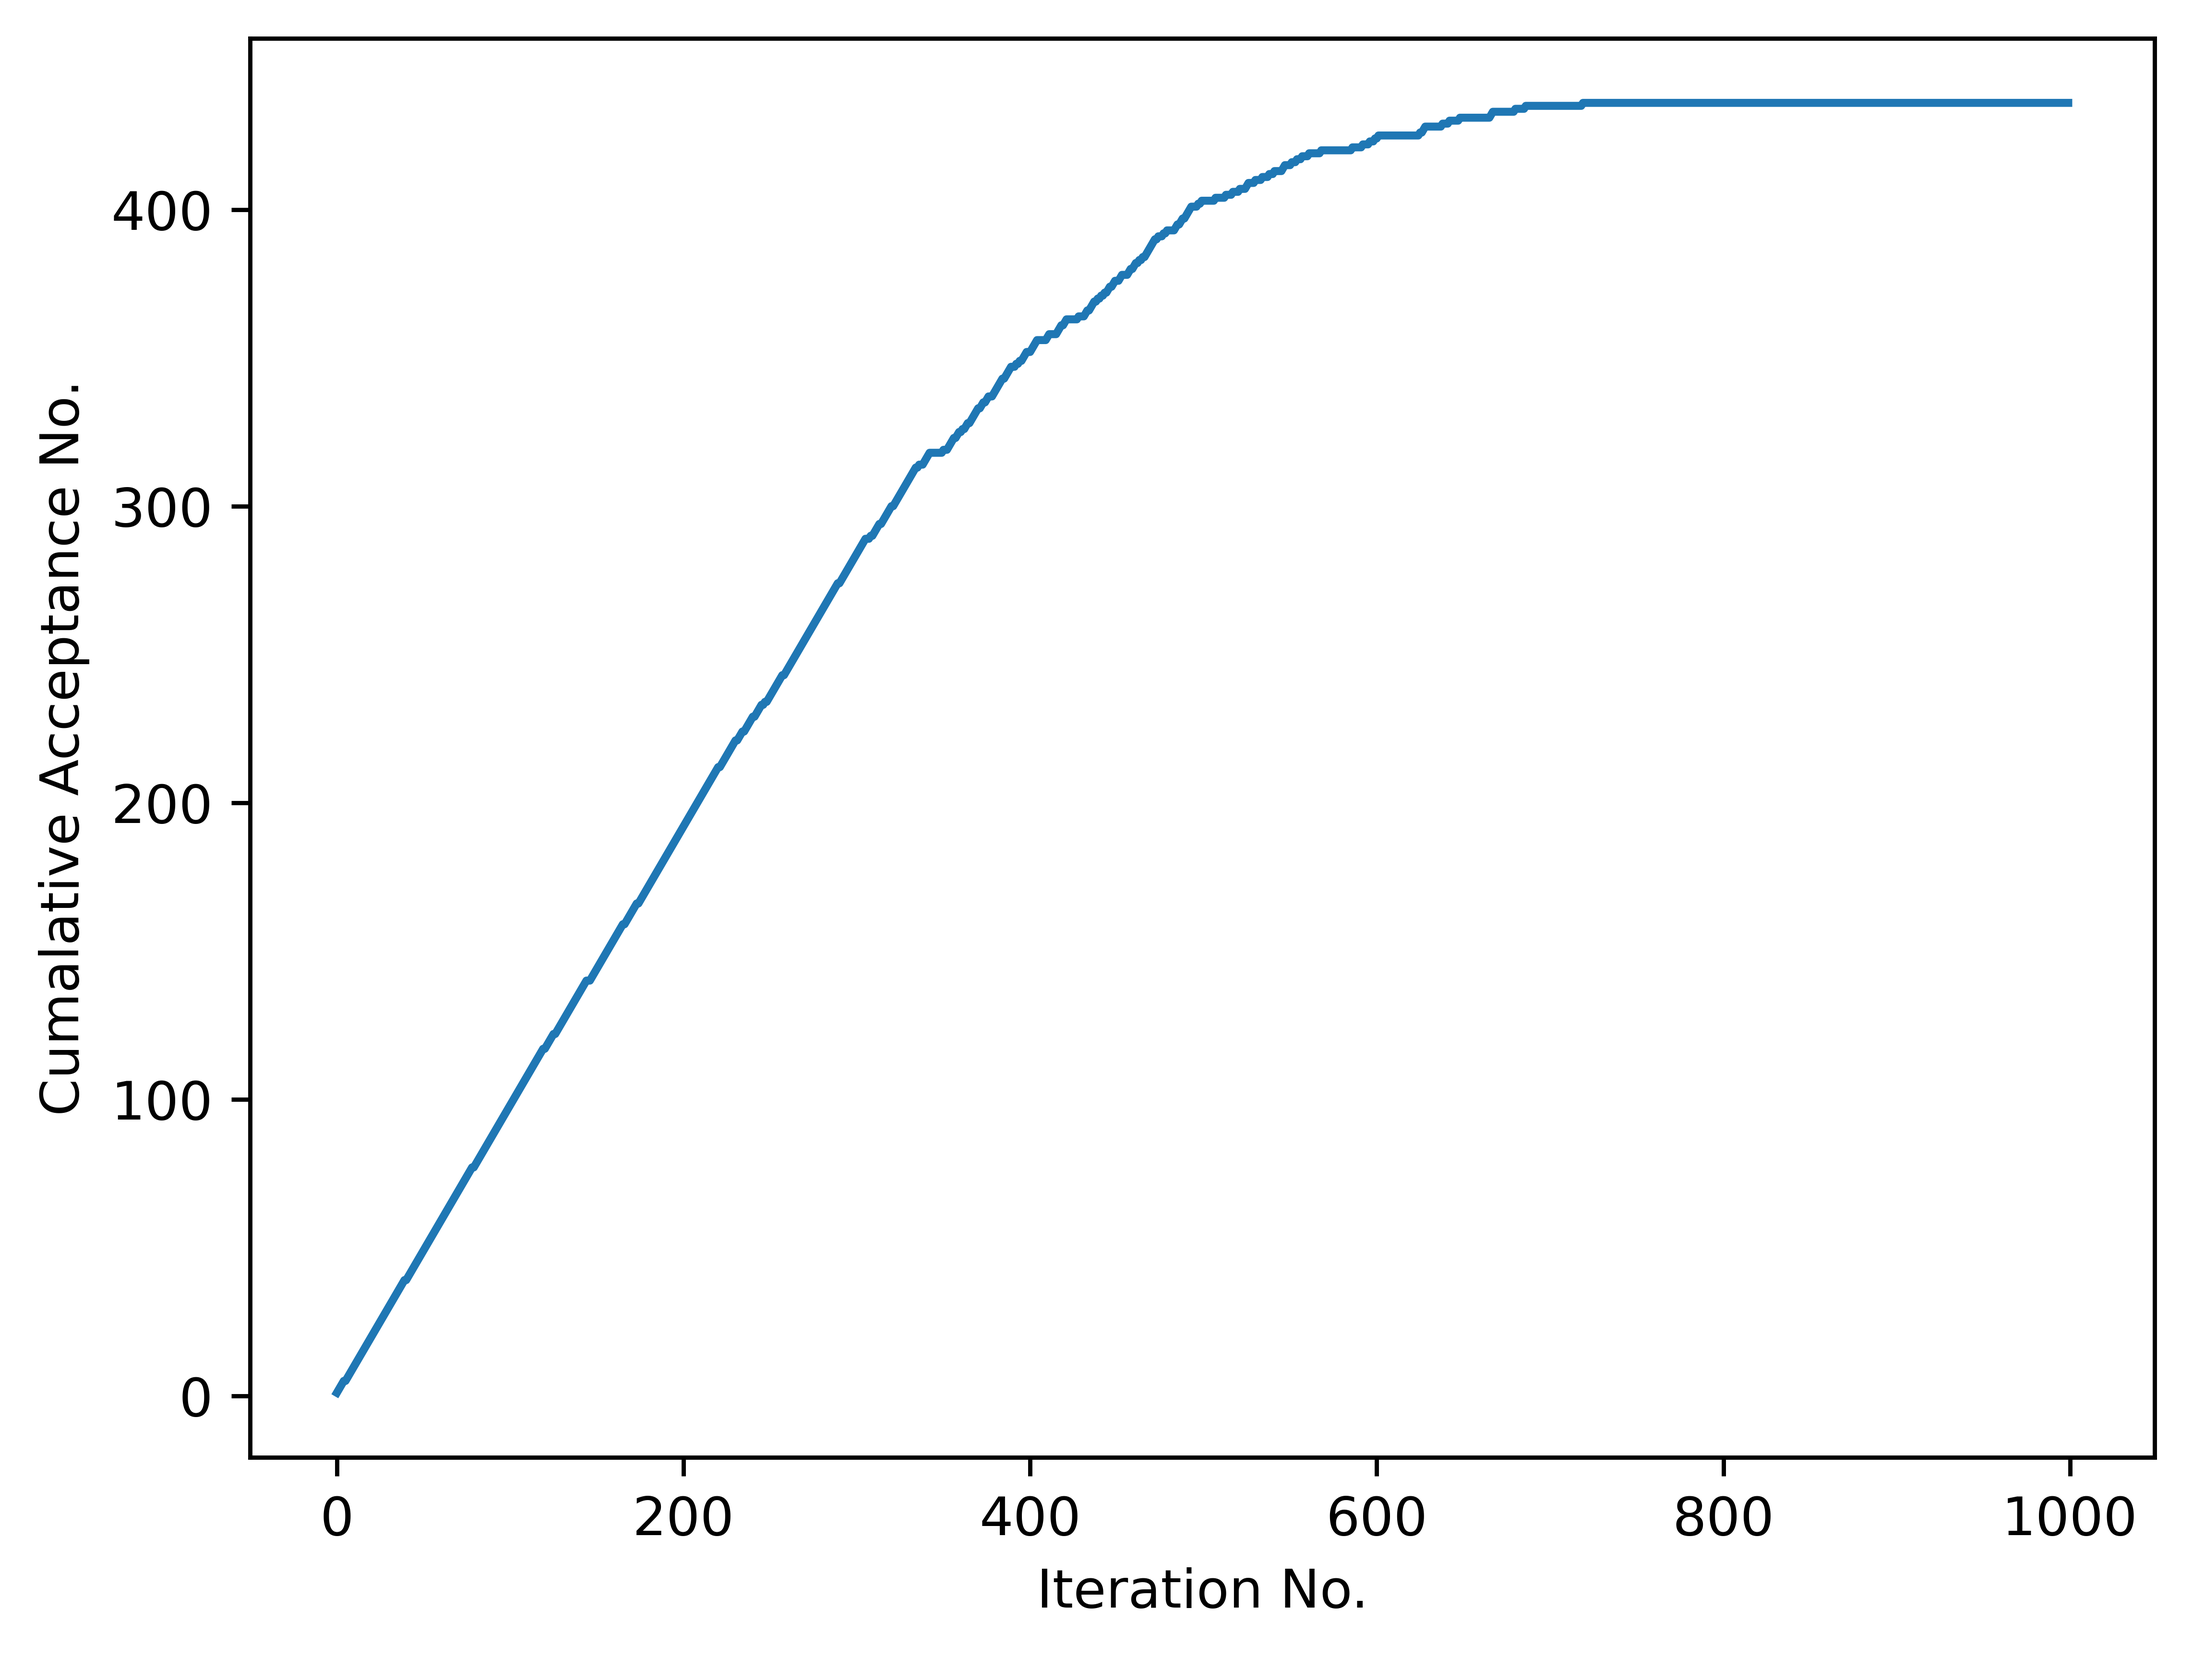
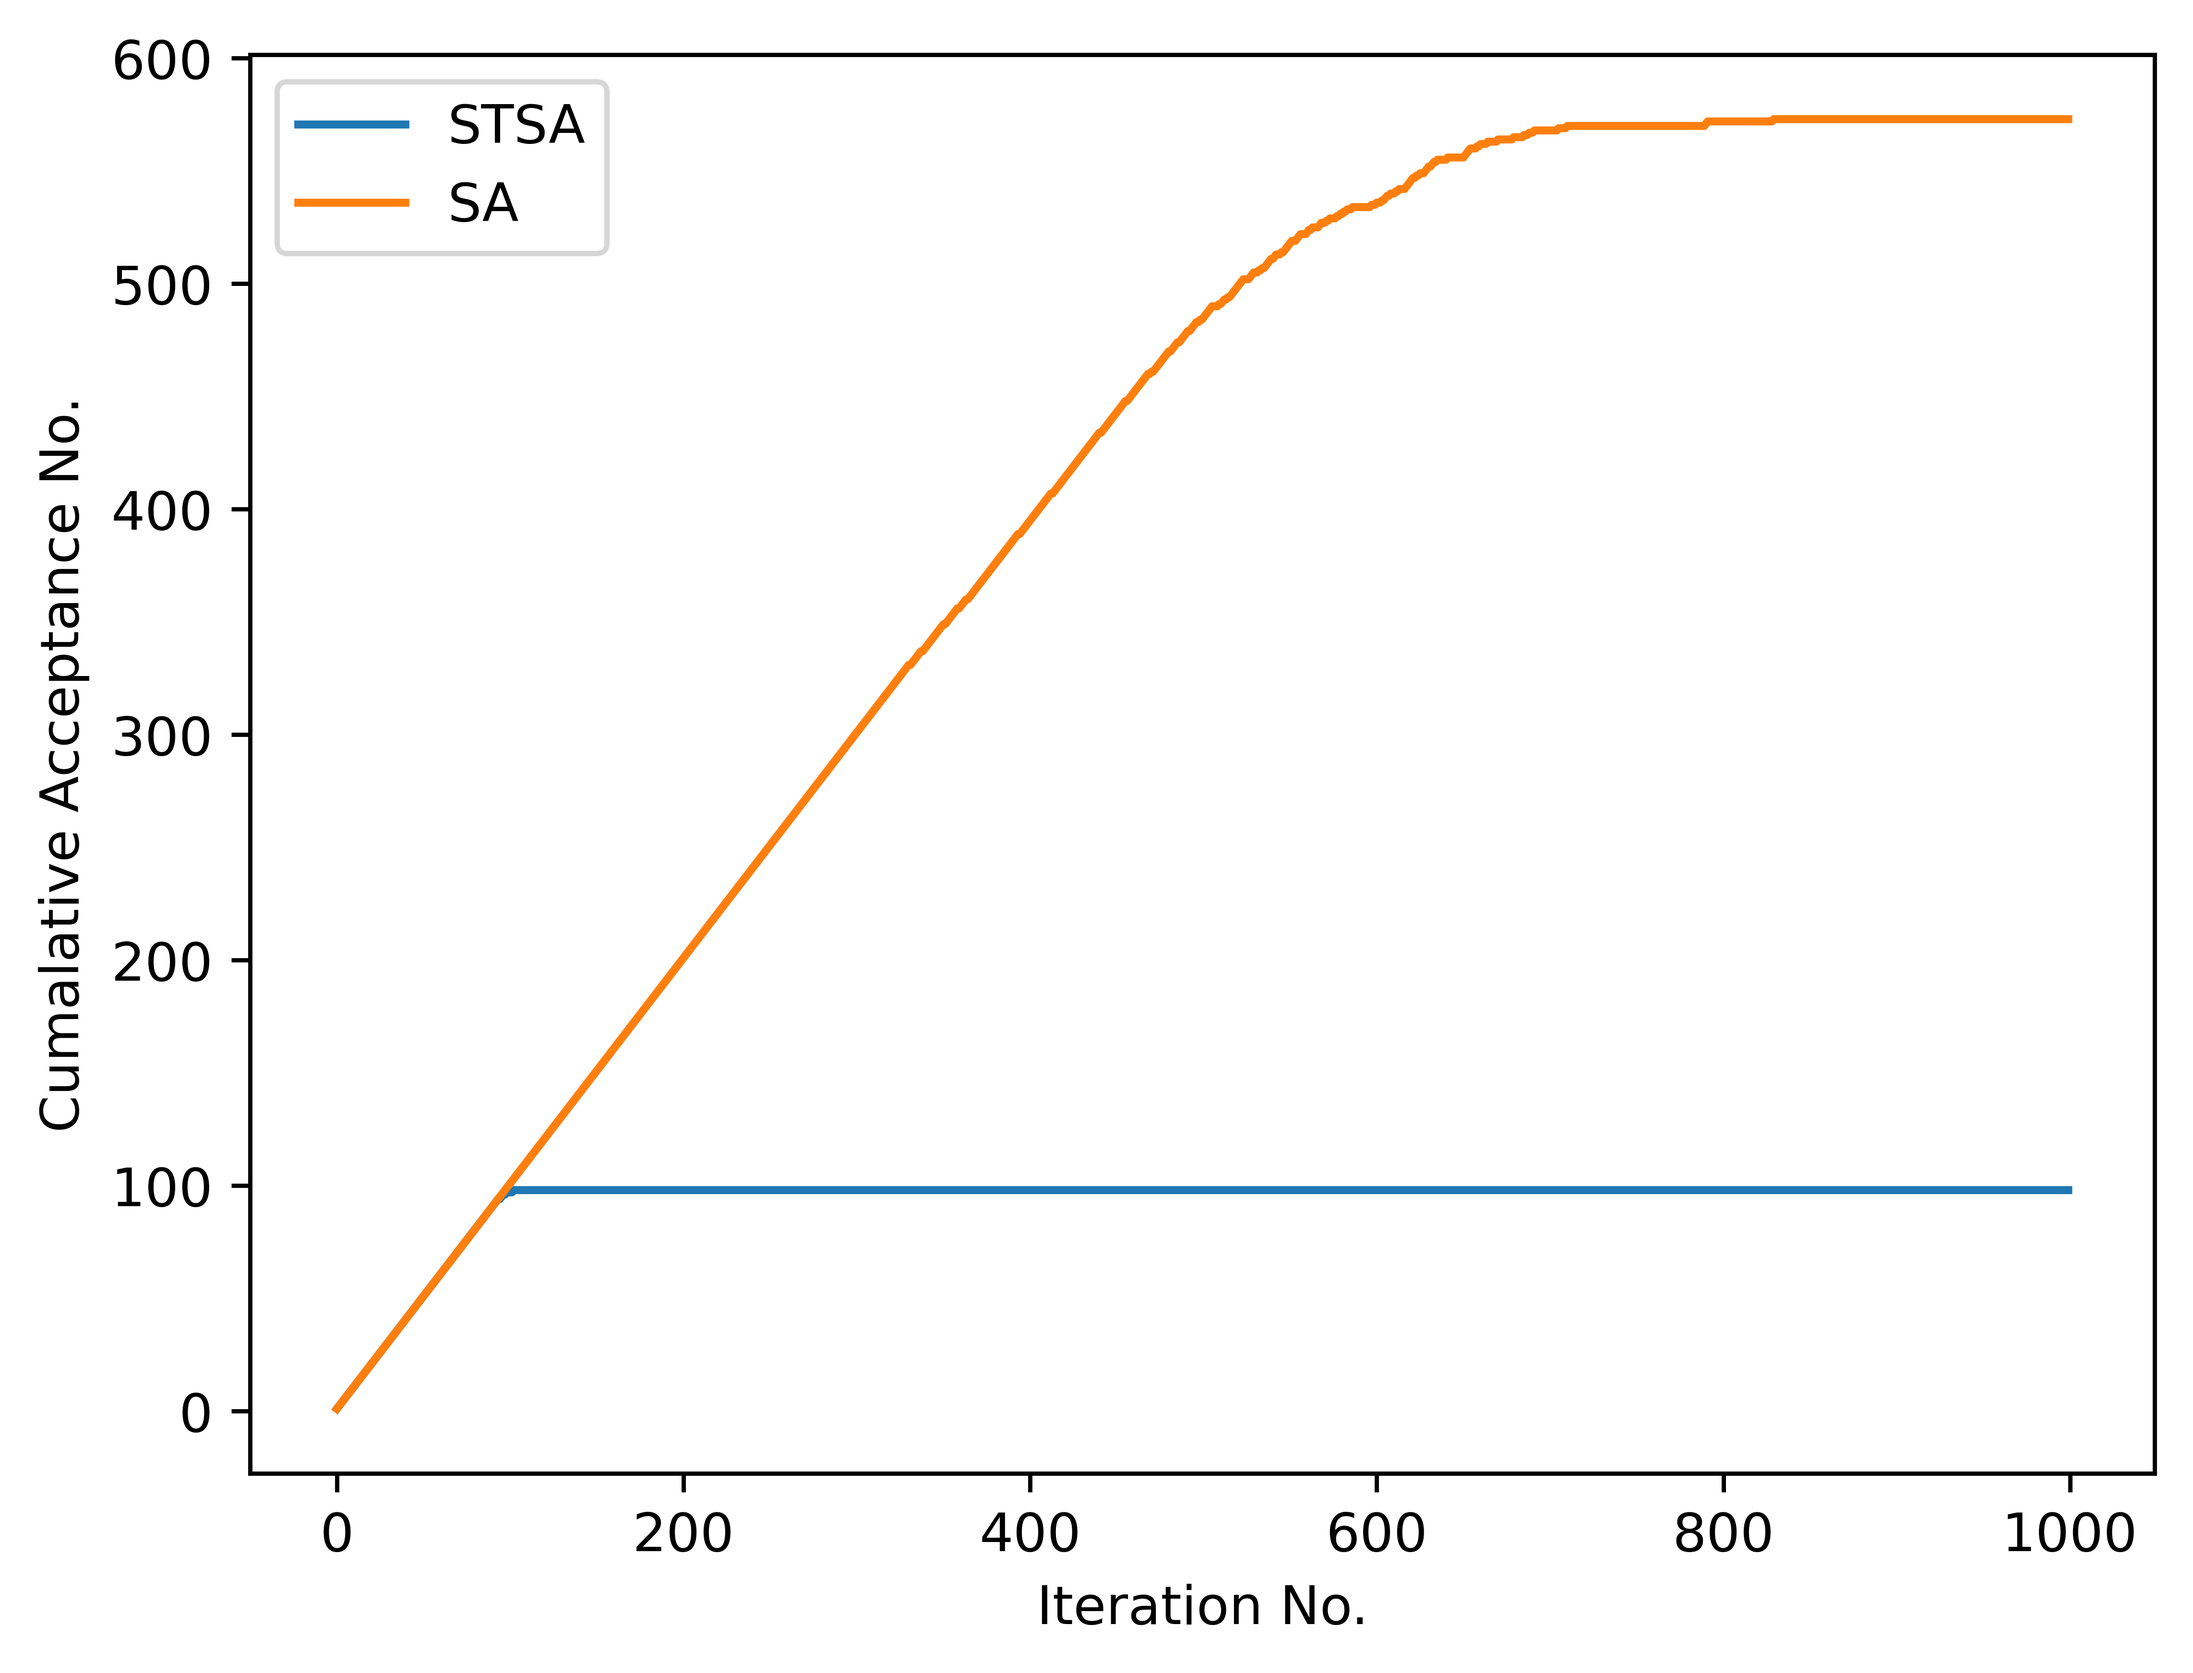
stochastic tunneling rewrite- OOP, docstrings, comments

diff --git a/stochastic_tunneling.py b/stochastic_tunneling.py
@@ -1,39 +1,106 @@
-import numpy as np 
-import random 
-import math
-from functions import ob, prob, transform
+import numpy as np
+from dataclasses import dataclass
+from numpy import ndarray
+from numpy.typing import ArrayLike
+@dataclass
+class solution: 
+    x_min: ndarray 
+    xs: ndarray
+    energies: ArrayLike 
+    accepts: ArrayLike
+    rejects: ArrayLike
+    """ 
+    A container class for outputting the optimal solution to the given QUBO problem
+    :param x_min: The bit vector corresponding to the minimum of the QUBO
+    :param xs: The various bit vectors cycled through throughout the annealing process
+    :param energies: An energy series for data analysis
+    :param accepts: The cumalative number of accepts at each iteration
+    :param rejects: The cumalative number of rejects at each iteration 
+    """
+@dataclass
+class Annealer:
+     ml: int 
+     iterations: int
+     T_0: float 
+     T_f: float 
+     X:ndarray=None
 
-def adaptive_anneal(iterations, matrix):
-    # Parameters
-    temps = 10*(-np.log(np.linspace(1, iterations-1, iterations-1)) + math.log(iterations))
-    # The initial bit
-    initial_bit = np.zeros(matrix.shape[0], dtype=bool)
-    initial_bit[random.randint(0, matrix.shape[0] -1)] = 1
-    min_val = 0
-    # Analytics
-    funcs = []
-    mins = []
-    for i in temps: 
-        # Creating a new candidate 
-        random_index = random.randint(0, matrix.shape[0] -1)
-        new_bit = initial_bit.copy()
-        new_bit[random_index] = not new_bit[random_index]
+     """" 
+     A container class storing the hyperparameters of the optimization algorithm 
+
+     :param ml: The Markov Chain length for each random walk 
+     :param iterations: The number of iterations for the annealing process 
+     :param T_0: The starting temperature 
+     :param T_f: The final temperature 
+     :param X: The initial bit array. Defaults to None
+     """
+
+     def anneal(self, Q:ndarray)->solution: 
+          """ 
+          The main annealing function 
+          :param Q: The QUBO matrix to optimize 
+          :returns: A solution object containing run information 
+          :raises ValueError: if the QUBO is not a square matrix or the initial bit vector is of inappropriate dimensionality 
+          """
+          
+          # Check the given matrix
+          if(len(Q.shape) != 2 or Q.shape[0] != Q.shape[1]): raise ValueError("Ensure that the QUBO is of proper dimensionality.")
+          
+          # Check the bit vector
+          if(self.X is not None and self.X.shape[0] != Q.shape[0]): raise ValueError("Make sure the initial bit vector is of appropriate dimensionality")
+          
+          # If the initial bit vector is None, generate a random initial solution 
+          self.X = np.random.randint(low=0, high=2, size=(Q.shape[0]), dtype=bool) if self.X is None else self.X
+          
+          # Initialize the ndarrays for data analytics, temperature and the random numbers to be used 
+          random_numbers = np.random.uniform(size=(self.iterations, self.ml))
+          
+          # Energies, bit vectors, accepts and rejects are kept track of after every random walk 
+          energies = np.zeros((self.iterations))
+          bit_vectors = np.zeros((self.iterations, self.X.shape[0]))
+          accepts = np.zeros((self.iterations))
+          rejects = np.zeros((self.iterations))
+          temperatures = np.linspace(start=self.T_0, stop=self.T_f, num=self.iterations)
+          iter_energy = (self.X).T @ Q @ self.X 
+          candidate_energy = 0
+          # Initiate the annealing
+          for step in range(self.iterations): 
+               
+               # Log the current bit vector and energy value 
+               energies[step] = iter_energy
+               bit_vectors[step] = self.X 
+               iter_temp = temperatures[step]
+               
+               for ml_step in range(self.ml):
+                # Perturb a random bit of the bit vector 
+                ran_i = np.random.randint(low=0, high=self.X.shape[0])
+                temp_X = np.copy(self.X)
+                temp_X[ran_i] = not temp_X[ran_i]
+                
+                # Compute the energy of the new bit vector
+                temp_energy = temp_X.T @ Q @ temp_X
+                
+                # Stochastic Parameter Energy Difference
+                diff = np.exp(-step*(iter_energy-candidate_energy)*(10**-3)) - np.exp(-step*(temp_energy-candidate_energy)*(10**-3))
+                
+                # Analyze new states by the Metropolis condition
+                if( (diff) < 0 or np.exp(-(diff)/temperatures[step]) > random_numbers[step, ml_step]):
+                    self.X = temp_X
+                    iter_energy = temp_energy
+                    accepts[step] = 1
+                else: 
+                    rejects[step] = 1
+                if temp_energy < iter_energy: 
+                    candidate_energy = temp_energy
         
-        # Avoiding the trivial case 
-        if(np.sum(new_bit) == 0): 
-            random_index = random.randint(0, matrix.shape[0] -1)
-            new_bit[random_index] = not new_bit[random_index]
-        
-        # Testing the probabilities of the new versus old case 
-        old_energy = transform(initial_bit, matrix, min_val, len(mins)+1)
-        new_energy = transform(new_bit, matrix, min_val, len(mins)+1)
-        new_ob = ob(new_bit, matrix)
-        # funcs.append(new_ob)
-        if(prob(old_energy, new_energy, i) >= random.random()): 
-            if(i == temps[0] or new_ob < min_val):
-                mins.append(new_ob)
-                min_val = np.min(mins)
-            initial_bit = new_bit
-       
-    return initial_bit, temps, funcs, mins
+          # Compile the results 
+          sol = { 
+              'x_min': self.X, 
+              'xs': bit_vectors,
+              'energies': energies, 
+              'accepts': np.cumsum(accepts),
+              'rejects': np.cumsum(rejects)
+          }
+          return solution(**sol)
+
 

diff --git a/SA_example.py b/SA_example.py
@@ -1,21 +1,36 @@
-from simulated_annealing import Annealer
+from stochastic_tunneling import Annealer as st_annealer
+from simulated_annealing import Annealer as sa_annealer
 import numpy as np
 import matplotlib.pyplot as plt
-x = Annealer(iterations=1000, ml=100, T_0=10, T_f=1.0)
+st = st_annealer(iterations=1000, ml=100, T_0=10, T_f=1.0)
+sa = sa_annealer(iterations=1000, ml=100, T_0=10, T_f=1.0)
 
 Q = -np.random.uniform(low=0, high=10, size=(3,3))
-sol = x.anneal(Q=Q)
-x_min = sol.x_min
-print(x_min.T @ Q @ x_min, x_min)
-plt.plot(np.arange(1000), sol.accepts) 
+st_sol = st.anneal(Q=Q)
+sa_sol = sa.anneal(Q=Q)
+st_x_min = st_sol.x_min
+sa_x_min = sa_sol.x_min
+
+print(f'Simulated Annealing Minimum: {sa_x_min.T @ Q @ sa_x_min}')
+print(f'Stochasic Tuneneling Minimum: {st_x_min.T @ Q @ st_x_min}')
+
+plt.plot(np.arange(1000), st_sol.accepts, label='STSA')
+plt.plot(np.arange(1000), sa_sol.accepts, label='SA') 
 plt.xlabel("Iteration No.")
 plt.ylabel("Cumalative Acceptance No.")
+plt.legend()
 plt.savefig('acceptances.png', dpi=800, bbox_inches='tight')
 plt.close()
-plt.plot(np.arange(1000), sol.energies)
+
+plt.plot(np.arange(1000), st_sol.energies, label='STSA')
+plt.plot(np.arange(1000), sa_sol.energies, label='SA')
 plt.ylabel("Energy")
+plt.legend()
 plt.savefig('energies.png', dpi=800, bbox_inches='tight')
 plt.close() 
-plt.plot(np.arange(1000), sol.rejects)
+
+plt.plot(np.arange(1000), st_sol.rejects, label='STSA')
+plt.plot(np.arange(1000), sa_sol.rejects, label='SA')
 plt.ylabel("Cumalative Rejection No.")
+plt.legend()
 plt.savefig('rejections.png', dpi=800, bbox_inches='tight')
